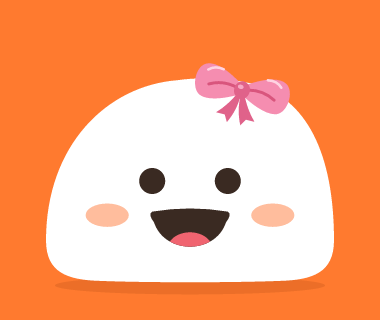
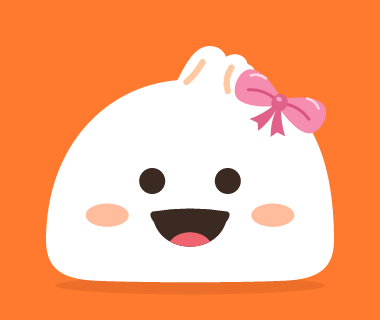
코코 리본: 만두 꼭지를 다시 보이게 하고 리본은 꼭지 옆 어깨에

Changed region(s): [[0.4632, 0.125, 0.8684, 0.4375]]

diff --git a/app/src/components/Outfits.tsx b/app/src/components/Outfits.tsx
@@ -5,7 +5,7 @@ export type OutfitId = 'ribbon' | 'beanie' | 'straw' | 'beret' | 'crown' | 'part
 
 // 모자 그림의 기준점(from)을 코코 머리 위 자리(to)에 맞추고, k배 키우고 r도 기울인다. top = 얹었을 때 가장 위쪽 y
 const FIT: Record<OutfitId, { from: [number, number]; to: [number, number]; k: number; r?: number; top: number }> = {
-  ribbon: { from: [268, 82], to: [258, 88], k: 1.1, r: 14, top: 62 },
+  ribbon: { from: [268, 82], to: [300, 102], k: 1.1, r: 26, top: 70 },
   beanie: { from: [225, 104], to: [203, 150], k: 1.45, top: 5 },
   straw: { from: [225, 114], to: [203, 104], k: 1.25, top: 9 },
   beret: { from: [225, 104], to: [200, 142], k: 1.4, top: 24 },
@@ -16,9 +16,9 @@ const FIT: Record<OutfitId, { from: [number, number]; to: [number, number]; k: n
   trapper: { from: [0, 0], to: [0, 0], k: 1, top: 62 },
 };
 
-/** 머리에 얹는 옷은 만두 꼭지를 숨긴다 */
+/** 머리를 덮는 옷은 만두 꼭지를 숨긴다 (리본은 꼭지 옆에 묶어서 꼭지가 보이게) */
 export const COVERS_KNOB: Record<OutfitId, boolean> = {
-  ribbon: true,
+  ribbon: false,
   beanie: true,
   straw: true,
   beret: true,
